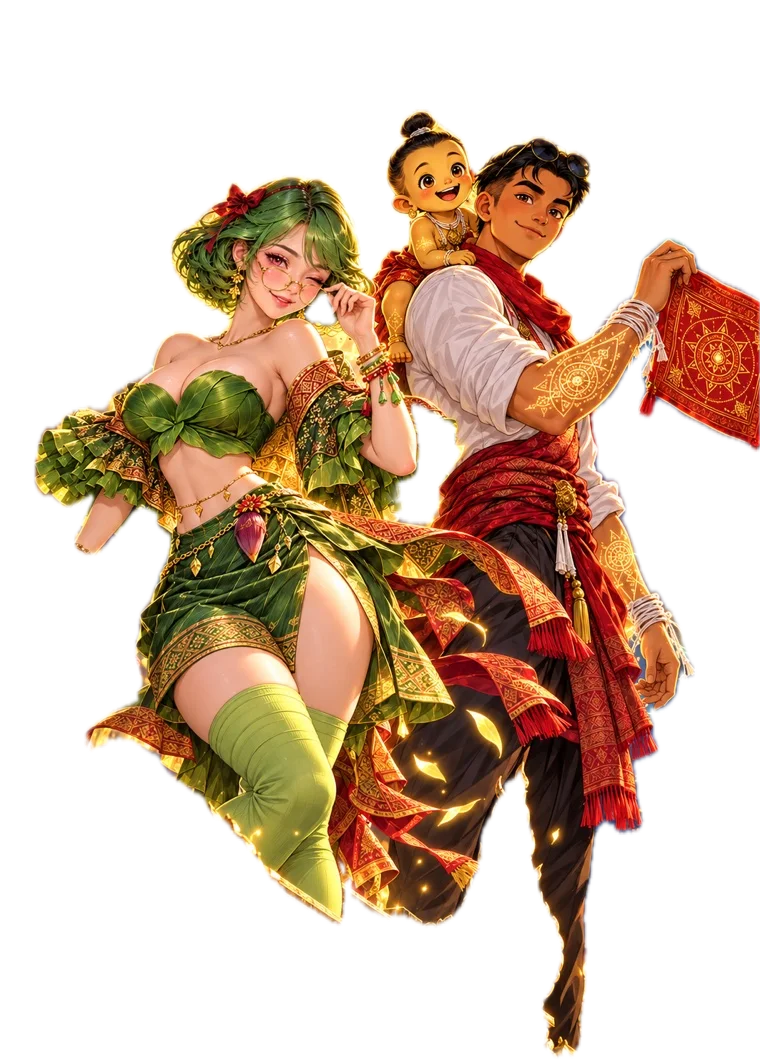
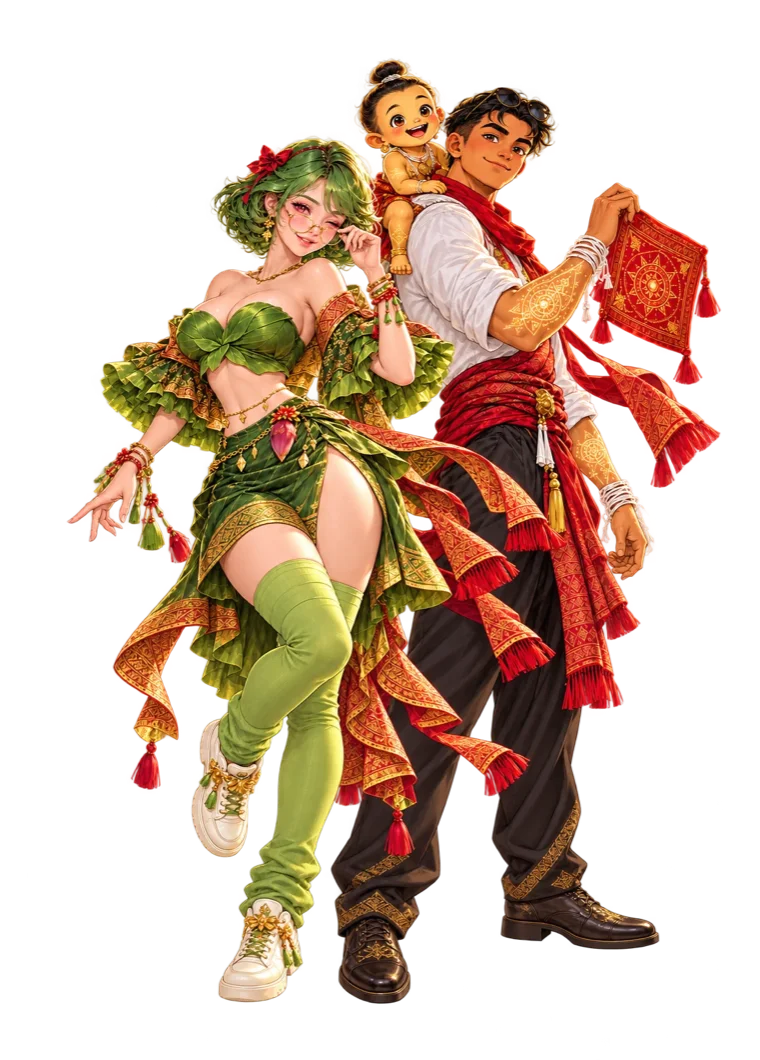
Deck 25 showcases: owner's full-body cutouts for Ajarn Daeng, the duo and moonlight Tani
- art/cut/ajandaeng, alt-ajandaeng, taniduean (+ alt-taniduean) from the owner's transparent full-body pictures, CUTS boxes updated
- moonlight scene: one upright leaf each side (her picture has wings), edge mask removed

diff --git a/index.html b/index.html
@@ -1,5 +1,5 @@
 <meta name="security-build" content="1">
-<meta http-equiv="Content-Security-Policy" content="default-src 'self'; script-src 'self' 'sha256-Xh50GS+mHx/D0Md/rNInzrnHCgoVxXr2jz0Vp6Xpx5U=' 'sha256-syKAMjSehBp7TMUpn4sw+8dfYQfj32pHY7SY2I0bgu4='; style-src 'self' 'unsafe-inline' https://fonts.googleapis.com; font-src 'self' https://fonts.gstatic.com data:; img-src 'self' data: blob: https://laolegendwars.com https://xahuvoounkdojfsvnfaj.supabase.co; media-src 'self' blob:; connect-src 'self' https://xahuvoounkdojfsvnfaj.supabase.co wss://xahuvoounkdojfsvnfaj.supabase.co; worker-src 'self'; object-src 'none'; base-uri 'none'; form-action 'self'">
+<meta http-equiv="Content-Security-Policy" content="default-src 'self'; script-src 'self' 'sha256-Xh50GS+mHx/D0Md/rNInzrnHCgoVxXr2jz0Vp6Xpx5U=' 'sha256-hSyzvBo8Gk+mNcbE+vKb/6a4Xt8lleMUzQTtmgXg+Ao='; style-src 'self' 'unsafe-inline' https://fonts.googleapis.com; font-src 'self' https://fonts.gstatic.com data:; img-src 'self' data: blob: https://laolegendwars.com https://xahuvoounkdojfsvnfaj.supabase.co; media-src 'self' blob:; connect-src 'self' https://xahuvoounkdojfsvnfaj.supabase.co wss://xahuvoounkdojfsvnfaj.supabase.co; worker-src 'self'; object-src 'none'; base-uri 'none'; form-action 'self'">
 <meta name="referrer" content="no-referrer">
 <meta charset="utf-8">
 <script>
@@ -624,8 +624,6 @@ body{background:
 .show.mx-yan .stint{background:radial-gradient(ellipse at 50% 38%,transparent 30%,#1a0606dd 100%),linear-gradient(0deg,#d8452caa 0%,transparent 50%)}
 .show.mx-tani .stint{background:radial-gradient(ellipse at 50% 38%,transparent 30%,#04161add 100%),linear-gradient(0deg,#7fd8b0aa 0%,transparent 50%)}
 .show.mx-yan .sband{--bandc:#c0361c}.show.mx-tani .sband{--bandc:#2f8a62}
-/* her wings run off the picture's edges: fade the cut there */
-.show.mx-tani .scut{-webkit-mask:linear-gradient(90deg,transparent,#000 9%,#000 91%,transparent),linear-gradient(transparent,#000 7%,#000);-webkit-mask-composite:source-in;mask:linear-gradient(90deg,transparent,#000 9%,#000 91%,transparent),linear-gradient(transparent,#000 7%,#000);mask-composite:intersect}
 .show .mx-yring,.show .mx-ygold{left:var(--gx);top:var(--gy);width:calc(var(--R) * 2.1);aspect-ratio:1;translate:-50% -50%;animation:mxyring var(--dur) ease-out both}
 .show .mx-ygold{width:calc(var(--R) * 1.6);opacity:.6}
 .show .mx-yring img,.show .mx-ygold img,#fx .yring img{display:block;width:100%;height:100%;animation:mxspin 12s linear infinite;filter:drop-shadow(0 0 10px #ffd76a)}
@@ -643,7 +641,7 @@ body{background:
 .show .mx-fmoon{left:calc(var(--gx) + var(--R) * .62);top:calc(var(--gy) - var(--R) * .98);width:calc(var(--R) * 1.05);translate:-50% -50%;animation:mxfmoon var(--dur) ease-out both}
 .show .mx-fmoon img{display:block;width:100%;filter:drop-shadow(0 0 30px #e8f4ffcc)}
 @keyframes mxfmoon{0%{transform:translateY(45%) scale(.6);opacity:0}35%{opacity:1}100%{transform:none;opacity:1}}
-.show .mx-wing{left:var(--gx);top:calc(var(--gy) + var(--R) * .05);width:calc(var(--R) * .95);translate:0 -100%;transform-origin:0 100%;filter:drop-shadow(0 0 12px #c9ffe9);animation:mxwing calc(var(--dur) * .4) var(--d) cubic-bezier(.2,1.3,.4,1) both}
+.show .mx-wing{left:var(--gx);top:calc(var(--gy) - var(--R) * .1);width:calc(var(--R) * .8);translate:0 -100%;transform-origin:0 100%;filter:drop-shadow(0 0 12px #c9ffe9);animation:mxwing calc(var(--dur) * .4) var(--d) cubic-bezier(.2,1.3,.4,1) both}
 .show .mx-wing.l{translate:-100% -100%;transform-origin:100% 100%}
 .show .mx-wing img{display:block;width:100%}.show .mx-wing.l img{scale:-1 1}
 @keyframes mxwing{0%{rotate:var(--r0);scale:.4;opacity:0}100%{rotate:var(--r1);scale:1;opacity:.95}}
@@ -2840,7 +2838,7 @@ const PET_ART = true;            // art/pet-<id>-<1..3>.webp, cut out from the u
 const PET_LINES = {start:['ສູ້ໆ!', 'ພ້ອມແລ້ວ!', 'ໄປກັນເລີຍ!'], kill:['ເກັ່ງຫຼາຍ!', 'ວ້າວ!', 'ສຸດຍອດ!'], legend:['ຕຳນານມາແລ້ວ!', 'ແຮງຫຼາຍ!'],
   tale:['ນິທານຄົບແລ້ວ!', 'ມ່ວນຫຼາຍ!'], win:['ຊະນະແລ້ວ! 🎉', 'ເຮົາເກັ່ງທີ່ສຸດ!'], lose:['ບໍ່ເປັນຫຍັງ ເທື່ອໜ້າເອົາໃໝ່!', 'ສູ້ໃໝ່ເດີ້!']};
 // cutouts for the summon showcase (art/cut/<img>.webp), made with the macOS subject-lift; the subject's box as fractions [x, y, w, h]
-const CUTS = {ajandaeng:[0.155,0.087,0.711,0.745],'alt-ajandaeng':[0.047,0.106,0.95,0.887],nangtani:[0.105,0.017,0.624,0.742],taniduean:[0,0,0.997,0.849],"pulangseung":[0.0145, 0.0, 0.9158, 0.6601],"alt-pulangseung":[0.0, 0.0, 0.9803, 0.6761],"khunjueang":[0.1013, 0.0473, 0.5934, 0.4276],"alt-khunjueang":[0.0, 0.0938, 0.5224, 0.3845],"chaothamkonglor":[0.3618, 0.01, 0.4579, 0.586],"alt-chaothamkonglor":[0.2855, 0.0085, 0.6987, 0.5849],"rueaxuangkham":[0.0, 0.0218, 1.0, 0.65],"alt-rueaxuangkham":[0.0158, 0.1569, 0.9842, 0.6134],"maekhuakham":[0.2342, 0.0236, 0.5171, 0.5309],"alt-maekhuakham":[0.0, 0.0822, 0.7947, 0.6352],"nairoymuay":[0.1026, 0.0511, 0.8697, 0.6424],"alt-nairoymuay":[0.0, 0.0132, 0.9408, 0.7703],"hydronak":[0.2322, 0.0198, 0.4395, 0.4613],"panyakham":[0.2211, 0.0132, 0.6776, 0.5478],"alt-panyakham":[0.0303, 0.086, 0.5921, 0.431],"bangfaidao":[0.3355, 0.0104, 0.6, 0.5208],"alt-bangfaidao":[0.0605, 0.0123, 0.8566, 0.6654],"maekaidao":[0.0, 0.1231, 0.9868, 0.4489],"alt-maekaidao":[0.0039, 0.0919, 0.95, 0.5464],"alt-hydronak":[0.0, 0.0085, 0.9178, 0.3547],nangchampa:[0.087,0.043,0.847,0.692],khudapphen:[0.029,0,0.953,0.636],dapsongmue:[0.008,0.055,0.966,0.496],ajandap:[0.126,0.074,0.768,0.715],kamkadam:[0.234,0.028,0.584,0.528],'alt-hackxm':[0,0.119,0.874,0.862],'alt-hapkhanasouane':[0,0.023,0.997,0.939],'alt-kalaket':[0,0.009,0.995,0.951],'alt-kamkadam':[0.045,0,0.945,0.657],'alt-kangli':[0,0.015,0.961,0.896],'alt-khaendj':[0,0,0.929,0.811],'alt-kratai':[0.232,0.242,0.513,0.417],'alt-luksaolao':[0,0.03,0.753,0.777],'alt-maethap':[0,0.013,0.795,0.879],'alt-makaew':[0,0.021,0.942,0.772],'alt-mechyak':[0,0.038,0.995,0.96],'alt-nagax':[0,0,0.887,0.798],'alt-nangkaew':[0,0,0.958,0.826],'alt-ngaonam':[0.087,0.385,0.674,0.238],'alt-phadaeng':[0,0.009,0.934,0.77],'alt-phayanak':[0,0,0.958,0.679],'alt-phayathaen':[0,0.015,0.997,0.677],'alt-phralam':[0,0,0.997,0.999],'alt-phutthasen':[0,0.047,0.997,0.709],'alt-punyeu':[0,0.021,0.997,0.591],'alt-santhaman':[0,0,0.997,0.942],'alt-singkaew':[0,0.094,0.992,0.691],'alt-sinxay':[0,0,0.984,0.999],'alt-suttharo':[0.216,0,0.529,0.615],'alt-thaohung':[0,0,0.989,0.998],'alt-xangsuek':[0,0.013,0.945,0.768],hanuman:[0,0,0.987,0.69],hapkhanasouane:[0,0.015,0.997,0.621],hungxang:[0,0,0.9,0.642],kalaket:[0,0.023,0.976,0.619],kamkadam2:[0,0.011,0.632,0.553],khrut:[0,0,0.997,0.679],khunborom:[0.108,0.038,0.395,0.369],khurak:[0.039,0.009,0.942,0.472],kratai:[0.034,0.094,0.963,0.468],kumphan:[0.058,0.011,0.713,0.543],leader:[0,0.023,0.997,0.674],maethap:[0,0,0.997,0.615],mechyak:[0,0.011,0.987,0.632],nakjet:[0.008,0.002,0.974,0.519],nangkaew:[0,0,0.987,0.711],phangkhi:[0,0,0.868,0.536],phayakhom:[0,0,0.997,0.623],phayanak:[0,0,0.892,0.938],phayathaen:[0.121,0.013,0.797,0.494],phralam:[0.105,0,0.861,0.741],phutthasen:[0,0.023,0.966,0.64],punyeu:[0.061,0.036,0.853,0.553],sangkhanthewi:[0.15,0.008,0.847,0.551],sangpheuak:[0.153,0.077,0.624,0.447],singhimma:[0.082,0.011,0.824,0.586],sinxay:[0,0,0.997,0.742],sinxaysam:[0.013,0.021,0.971,0.589],songphi:[0.039,0.023,0.782,0.494],suttharo:[0.003,0,0.776,0.394],thaenlom:[0.005,0.023,0.842,0.496],thaentong:[0.013,0,0.913,0.555],thaohung:[0.168,0,0.445,0.525],thewadapon:[0,0,0.761,0.566],xangjaidi:[0.1,0.03,0.797,0.542],xangsuek:[0.037,0.011,0.913,0.617],yaknak:[0.005,0.011,0.863,0.521],yaksip:[0.005,0,0.882,0.591],yaksombat:[0.084,0,0.913,0.609]};
+const CUTS = {ajandaeng:[0.071,0.012,0.886,0.954],'alt-ajandaeng':[0.087,0.055,0.863,0.892],nangtani:[0.105,0.017,0.624,0.742],taniduean:[0.001,0,0.999,1],'alt-taniduean':[0.001,0,0.999,1],"pulangseung":[0.0145, 0.0, 0.9158, 0.6601],"alt-pulangseung":[0.0, 0.0, 0.9803, 0.6761],"khunjueang":[0.1013, 0.0473, 0.5934, 0.4276],"alt-khunjueang":[0.0, 0.0938, 0.5224, 0.3845],"chaothamkonglor":[0.3618, 0.01, 0.4579, 0.586],"alt-chaothamkonglor":[0.2855, 0.0085, 0.6987, 0.5849],"rueaxuangkham":[0.0, 0.0218, 1.0, 0.65],"alt-rueaxuangkham":[0.0158, 0.1569, 0.9842, 0.6134],"maekhuakham":[0.2342, 0.0236, 0.5171, 0.5309],"alt-maekhuakham":[0.0, 0.0822, 0.7947, 0.6352],"nairoymuay":[0.1026, 0.0511, 0.8697, 0.6424],"alt-nairoymuay":[0.0, 0.0132, 0.9408, 0.7703],"hydronak":[0.2322, 0.0198, 0.4395, 0.4613],"panyakham":[0.2211, 0.0132, 0.6776, 0.5478],"alt-panyakham":[0.0303, 0.086, 0.5921, 0.431],"bangfaidao":[0.3355, 0.0104, 0.6, 0.5208],"alt-bangfaidao":[0.0605, 0.0123, 0.8566, 0.6654],"maekaidao":[0.0, 0.1231, 0.9868, 0.4489],"alt-maekaidao":[0.0039, 0.0919, 0.95, 0.5464],"alt-hydronak":[0.0, 0.0085, 0.9178, 0.3547],nangchampa:[0.087,0.043,0.847,0.692],khudapphen:[0.029,0,0.953,0.636],dapsongmue:[0.008,0.055,0.966,0.496],ajandap:[0.126,0.074,0.768,0.715],kamkadam:[0.234,0.028,0.584,0.528],'alt-hackxm':[0,0.119,0.874,0.862],'alt-hapkhanasouane':[0,0.023,0.997,0.939],'alt-kalaket':[0,0.009,0.995,0.951],'alt-kamkadam':[0.045,0,0.945,0.657],'alt-kangli':[0,0.015,0.961,0.896],'alt-khaendj':[0,0,0.929,0.811],'alt-kratai':[0.232,0.242,0.513,0.417],'alt-luksaolao':[0,0.03,0.753,0.777],'alt-maethap':[0,0.013,0.795,0.879],'alt-makaew':[0,0.021,0.942,0.772],'alt-mechyak':[0,0.038,0.995,0.96],'alt-nagax':[0,0,0.887,0.798],'alt-nangkaew':[0,0,0.958,0.826],'alt-ngaonam':[0.087,0.385,0.674,0.238],'alt-phadaeng':[0,0.009,0.934,0.77],'alt-phayanak':[0,0,0.958,0.679],'alt-phayathaen':[0,0.015,0.997,0.677],'alt-phralam':[0,0,0.997,0.999],'alt-phutthasen':[0,0.047,0.997,0.709],'alt-punyeu':[0,0.021,0.997,0.591],'alt-santhaman':[0,0,0.997,0.942],'alt-singkaew':[0,0.094,0.992,0.691],'alt-sinxay':[0,0,0.984,0.999],'alt-suttharo':[0.216,0,0.529,0.615],'alt-thaohung':[0,0,0.989,0.998],'alt-xangsuek':[0,0.013,0.945,0.768],hanuman:[0,0,0.987,0.69],hapkhanasouane:[0,0.015,0.997,0.621],hungxang:[0,0,0.9,0.642],kalaket:[0,0.023,0.976,0.619],kamkadam2:[0,0.011,0.632,0.553],khrut:[0,0,0.997,0.679],khunborom:[0.108,0.038,0.395,0.369],khurak:[0.039,0.009,0.942,0.472],kratai:[0.034,0.094,0.963,0.468],kumphan:[0.058,0.011,0.713,0.543],leader:[0,0.023,0.997,0.674],maethap:[0,0,0.997,0.615],mechyak:[0,0.011,0.987,0.632],nakjet:[0.008,0.002,0.974,0.519],nangkaew:[0,0,0.987,0.711],phangkhi:[0,0,0.868,0.536],phayakhom:[0,0,0.997,0.623],phayanak:[0,0,0.892,0.938],phayathaen:[0.121,0.013,0.797,0.494],phralam:[0.105,0,0.861,0.741],phutthasen:[0,0.023,0.966,0.64],punyeu:[0.061,0.036,0.853,0.553],sangkhanthewi:[0.15,0.008,0.847,0.551],sangpheuak:[0.153,0.077,0.624,0.447],singhimma:[0.082,0.011,0.824,0.586],sinxay:[0,0,0.997,0.742],sinxaysam:[0.013,0.021,0.971,0.589],songphi:[0.039,0.023,0.782,0.494],suttharo:[0.003,0,0.776,0.394],thaenlom:[0.005,0.023,0.842,0.496],thaentong:[0.013,0,0.913,0.555],thaohung:[0.168,0,0.445,0.525],thewadapon:[0,0,0.761,0.566],xangjaidi:[0.1,0.03,0.797,0.542],xangsuek:[0.037,0.011,0.913,0.617],yaknak:[0.005,0.011,0.863,0.521],yaksip:[0.005,0,0.882,0.591],yaksombat:[0.084,0,0.913,0.609]};
 function preloadCuts(ids){ for(const id of ids){ const d = C[id]; if(!d) continue; if(FUSE_FIG[id]) new Image().src = ART + 'cut/' + FUSE_FIG[id] + '.webp'; for(const im of [d.img, ALT[id]]) if(im && CUTS[im]) new Image().src = ART + 'cut/' + im + '.webp'; } }
 const ALT_CHANCE = location.hash === '#altall' ? 1 : .25;  // #altall makes every one alt, for showing the cards off
 
@@ -6576,8 +6574,8 @@ const LEGEND_FX = {
   // ດວງເດືອນຂຶ້ນ, ໃບກ້ວຍໝຸນວົນ, ປີກໃບກ້ວຍກາງ ແລະ ກີບດອກກ້ວຍຕົກ (ນາງຕານີ ຮ່າງແສງເດືອນ, deck 25)
   nangtani(el, fr){ el.classList.add('mx-tani'); const R = mxGeo(el, fr), c = MX_C(), back = mxBack(el);
     back(mxLayer(el, 'mx-fmoon', '<img alt="" src="' + FXP('full-moon') + '">'));
-    [[-1, 0], [-1, 1], [1, 0], [1, 1]].forEach(([sd, k]) => back(mxLayer(el, 'mx-wing ' + (sd < 0 ? 'l' : 'r'), '<img alt="" src="' + FXP('banana-leaf') + '">',
-      {'--r0':sd * -45 + 'deg', '--r1':sd * (k ? 30 : -4) + 'deg', '--d':(450 + k * 160) * SET.speed + 'ms'})));
+    [-1, 1].forEach(sd => back(mxLayer(el, 'mx-wing ' + (sd < 0 ? 'l' : 'r'), '<img alt="" src="' + FXP('banana-leaf') + '">',
+      {'--r0':sd * -45 + 'deg', '--r1':sd * -14 + 'deg', '--d':450 * SET.speed + 'ms'})));   // her picture has wings: one leaf each side peeks out
     mxAt(el, 80, () => { sfx('wind'); for(let k = 0; k < 14; k++) fxEmitImg('banana-leaf', {x:c.x, y:c.y, sp:1, cx:c.x, cy:c.y + R * .7, a0:k * Math.PI / 7, w:4.2, r0:R * .25, dr:R * .9, up:R * .9, life:1.3, size:R * .26}); });
     mxAt(el, 650, () => { sfx('bless'); shockAt(c.x, c.y - R * .45, '#e8f4ff', R * 1.5); });
     mxEvery(el, 90, 22, () => fxEmitImg('banana-petal', {x:Math.random() * innerWidth, y:-30, vx:(Math.random() - .5) * 40, vy:80 + Math.random() * 80, g:60, drag:.99, life:2.2, size:22 + Math.random() * 12, rot:Math.random() * 6, vr:(Math.random() - .5) * 3, fl:10}));
